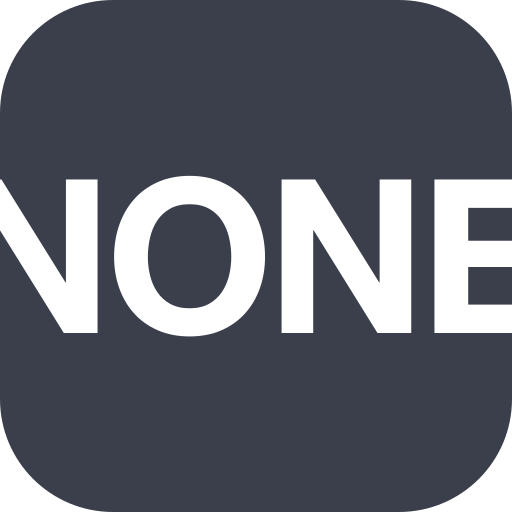
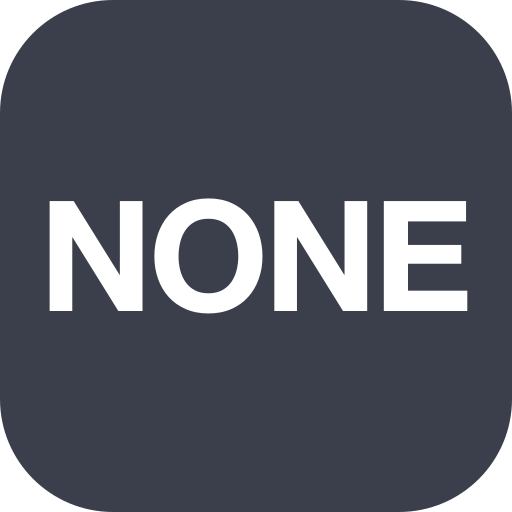
Tiles: four-letter labels (NONE, UTAH) sized to fit inside the rounded square

Changed region(s): [[0.5, 0.3438, 1.0, 0.6562], [0.0, 0.3438, 0.5, 0.6562], [0.4375, 0.4375, 0.4688, 0.5625]]

diff --git a/scripts/make-tiles.ts b/scripts/make-tiles.ts
@@ -106,12 +106,15 @@ async function withHalo(png: Buffer, radius = 9): Promise<Buffer> {
 }
 
 export function tileSvg(label: string, color: string, alt: string, size = SIZE): string {
-  const long = label.length > 4
-  const font = long
-    ? Math.round(size * 0.17)
-    : label.length === 2
-      ? Math.round(size * 0.5)
-      : Math.round(size * 0.42)
+  // Five or more letters (UNDRAFTED) run small; four (NONE, UTAH) must still clear the rounded edges.
+  const font =
+    label.length >= 5
+      ? Math.round(size * 0.17)
+      : label.length === 4
+        ? Math.round(size * 0.3)
+        : label.length === 2
+          ? Math.round(size * 0.5)
+          : Math.round(size * 0.42)
   return `<svg xmlns="http://www.w3.org/2000/svg" width="${size}" height="${size}" viewBox="0 0 ${size} ${size}">
   <rect width="${size}" height="${size}" rx="${Math.round(size * 0.22)}" fill="#${color}"/>
   <text x="50%" y="50%" dy="${Math.round(font * 0.36)}" text-anchor="middle" font-family="Helvetica Neue, Helvetica, Arial, sans-serif" font-weight="900" font-size="${font}" fill="#${alt}" letter-spacing="${-font * 0.03}">${label}</text>

diff --git a/scripts/make-nba-assets.ts b/scripts/make-nba-assets.ts
@@ -21,12 +21,15 @@ const SIZE = 512
 const FLAG_SIZE = 320
 
 function tileSvg(label: string, color: string, alt: string, size = SIZE): string {
-  const long = label.length > 4
-  const font = long
-    ? Math.round(size * 0.17)
-    : label.length === 2
-      ? Math.round(size * 0.5)
-      : Math.round(size * 0.42)
+  // Five or more letters (UNDRAFTED) run small; four (NONE, UTAH) must still clear the rounded edges.
+  const font =
+    label.length >= 5
+      ? Math.round(size * 0.17)
+      : label.length === 4
+        ? Math.round(size * 0.3)
+        : label.length === 2
+          ? Math.round(size * 0.5)
+          : Math.round(size * 0.42)
   return `<svg xmlns="http://www.w3.org/2000/svg" width="${size}" height="${size}" viewBox="0 0 ${size} ${size}">
   <rect width="${size}" height="${size}" rx="${Math.round(size * 0.22)}" fill="#${color}"/>
   <text x="50%" y="50%" dy="${Math.round(font * 0.36)}" text-anchor="middle" font-family="Helvetica Neue, Helvetica, Arial, sans-serif" font-weight="900" font-size="${font}" fill="#${alt}" letter-spacing="${-font * 0.03}">${label}</text>
